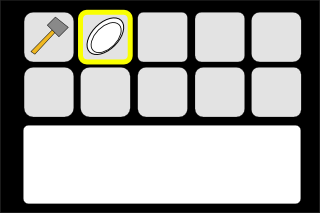
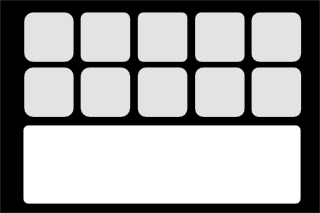
最初から持っているアイテムをプレビュー画面に表示

Changed region(s): [[0.0938, 0.0282, 0.4375, 0.3099]]

diff --git a/server/view/html/editor.html b/server/view/html/editor.html
@@ -110,7 +110,13 @@
 		
 		<!-- アイテム(上画面)のプレビュー -->
 		<script type="text/template" id="item_preview_template">
-			
+			<% _.each(items, function(item) { %>
+				<% if(item.get('img') == '') { %>
+					<div class="item_img" style="background-image: url('/client/editor/img/blank_item.png')"></div>
+				<% } else { %>
+					<div class="item_img" style="background-image: url('/download?blobkey=<%= item.get('img') %>')"></div>
+				<% } %>
+			<% }) %>
 		</script>
 		
 		<!-- アイテムの情報編集ビュー -->

diff --git a/client/editor/view/item_preview.js b/client/editor/view/item_preview.js
@@ -2,8 +2,15 @@ var ItemPreview = Backbone.View.extend({
 	tagName: 'div',
 	id: 'item_preview',
 	template: _.template($('#item_preview_template').html()),
+	initialize: function() {
+		this.listenTo(this.model, 'change:hasFirst remove change:img', this.render);
+	},
 	render: function() {
-		this.$el.html(this.template());
+		var firstItems = this.model.filter(function(item) {
+			return item.get('hasFirst');
+		});
+		
+		this.$el.html(this.template({items: firstItems}));
 		return this;
 	}
 });

diff --git a/client/editor/view/item_editor.js b/client/editor/view/item_editor.js
@@ -13,7 +13,7 @@ var ItemEditorView = Backbone.View.extend({
 		var itemListView = new ItemListView();
 		this.$el.append(itemListView.render().el);
 		
-		var itemPreview = new ItemPreview();
+		var itemPreview = new ItemPreview({model: game.get('itemList')});
 		this.$el.append(itemPreview.render().el);
 		
 		var itemInfoView = new ItemInfoView();

diff --git a/client/editor/model/item_list.js b/client/editor/model/item_list.js
@@ -8,7 +8,7 @@ var ItemList = Backbone.Collection.extend({
 		this.on('change:selected', this.itemHasSelected);
 		this.on('add', this.itemHasAdded);
 		this.on('remove', this.itemHasRemoved);
-		this.on('change:name change:img', this.itemHasChanged);
+		this.on('change:name change:img change:hasFirst', this.itemHasChanged);
 	},
 	
 	/**

diff --git a/client/editor/editor.css b/client/editor/editor.css
@@ -180,6 +180,15 @@ button {
 	width: 320px;
 	height: 213px;
 	background-image: url("/client/editor/img/upper.png");
+	padding-top: 12px;
+	padding-left: 23px;
+}
+#item_preview .item_img {
+	width: 50px;
+	height: 50px;
+	margin-right: 7px;
+	margin-bottom: 6px;
+	float: left;
 }
 
 #item_info {
